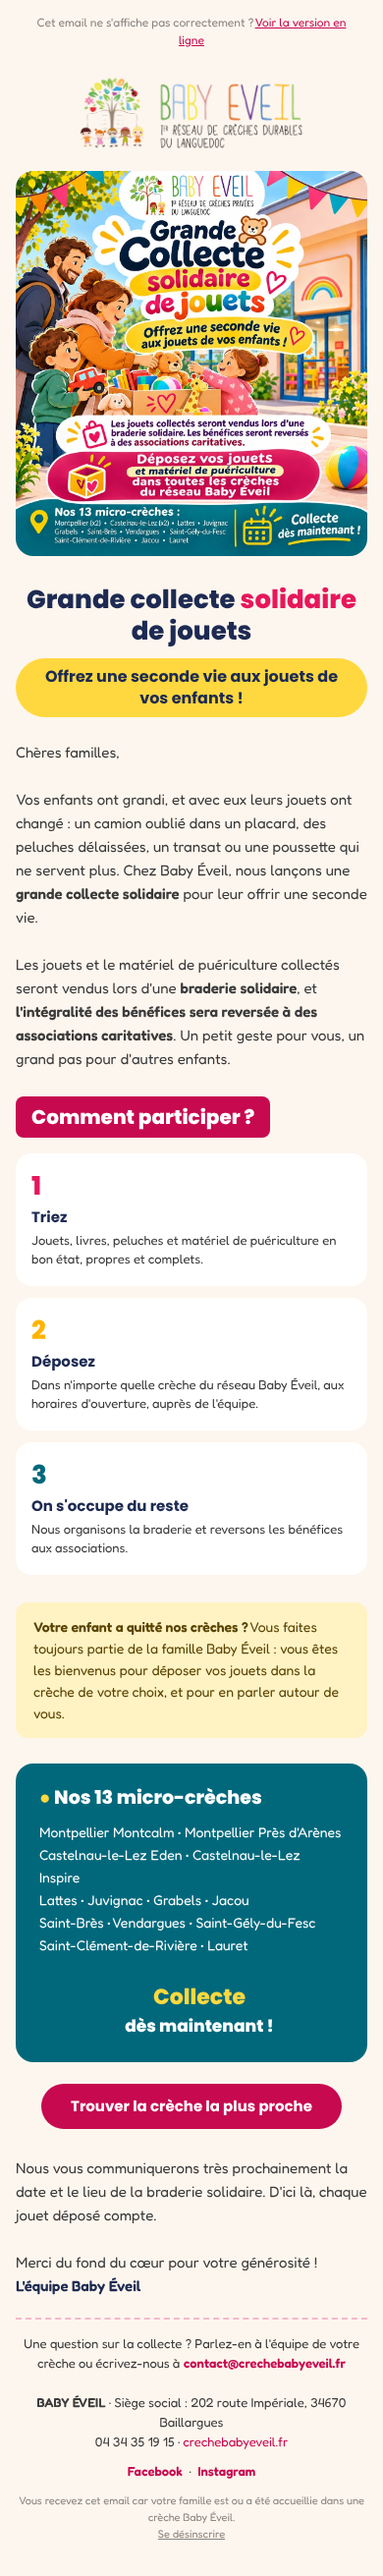
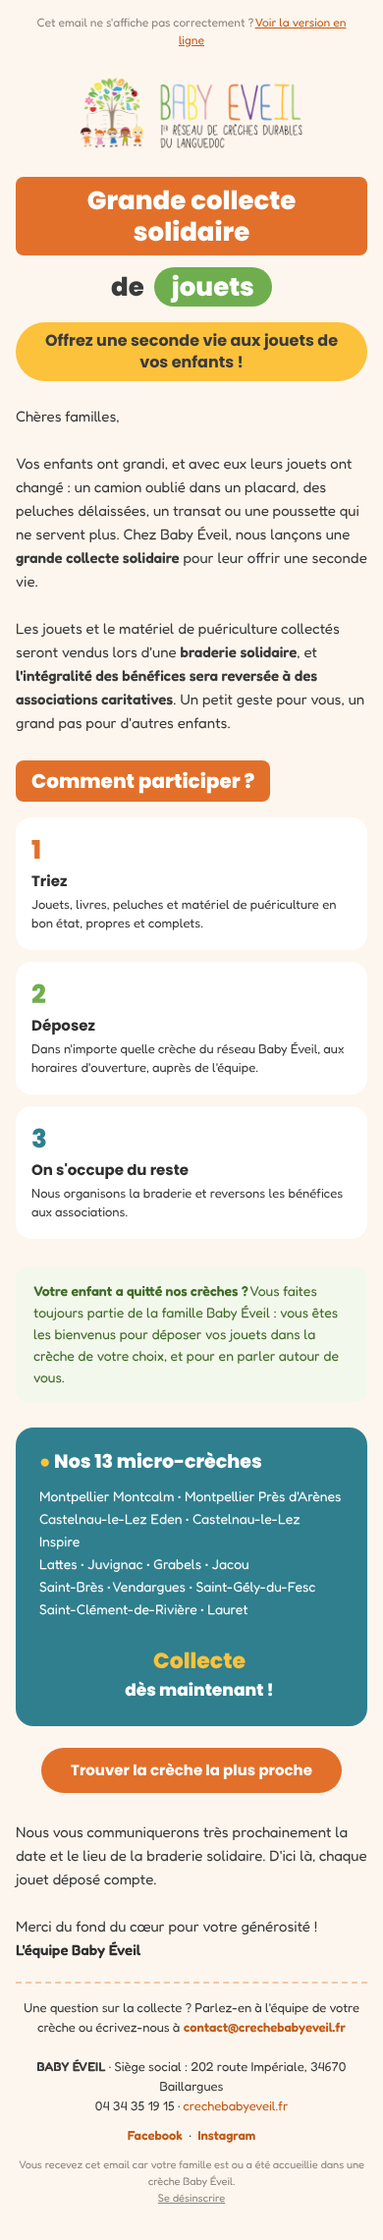
Email collecte de jouets : charte Baby Éveil, sans l'affiche
Claude-Session: https://claude.ai/code/session_019qc59Zs9auVzVSiYqsTnYf

diff --git a/emails/baby-eveil-collecte-jouets/email.html b/emails/baby-eveil-collecte-jouets/email.html
@@ -20,7 +20,7 @@
   body { background-color:#fdf6ee; -webkit-text-size-adjust:100%; -ms-text-size-adjust:100%; }
   table, td { mso-table-lspace:0pt !important; mso-table-rspace:0pt !important; border-collapse:collapse !important; }
   img { -ms-interpolation-mode:bicubic; border:0; outline:none; text-decoration:none; display:block; }
-  a { color:#c7094f; text-decoration:none; }
+  a { color:#c25a17; text-decoration:none; }
   a[x-apple-data-detectors], .x-gmail-data-detectors, .x-gmail-data-detectors *, .aBn { border-bottom:0 !important; cursor:default !important; color:inherit !important; text-decoration:none !important; font-size:inherit !important; font-family:inherit !important; font-weight:inherit !important; line-height:inherit !important; }
   @media screen and (max-width:640px) {
     .wrapper { width:100% !important; }
@@ -49,7 +49,7 @@
   <table role="presentation" border="0" cellpadding="0" cellspacing="0" width="640" class="wrapper" style="width:640px; max-width:640px;">
     <tr>
       <td align="center" style="padding:14px 24px 0 24px; font-family:'Fredoka','Trebuchet MS',Arial,sans-serif; font-size:12px; line-height:18px; color:#8a8580;">
-        Cet email ne s'affiche pas correctement ? <a href="{{ mirror }}" style="color:#c7094f; text-decoration:underline;">Voir la version en ligne</a>
+        Cet email ne s'affiche pas correctement ? <a href="{{ mirror }}" style="color:#c25a17; text-decoration:underline;">Voir la version en ligne</a>
       </td>
     </tr>
   </table>
@@ -65,29 +65,30 @@
     </tr>
   </table>
 
-  <!-- ===================== AFFICHE ===================== -->
-  <table role="presentation" border="0" cellpadding="0" cellspacing="0" width="640" class="wrapper" style="width:640px; max-width:640px;">
-    <tr>
-      <td align="center" class="pad" style="padding:0 24px 0 24px;">
-        <img src="images/affiche-collecte-jouets.jpg" width="592" alt="Grande collecte solidaire de jouets – Offrez une seconde vie aux jouets de vos enfants" style="width:592px; max-width:100%; height:auto; border-radius:18px;">
-      </td>
-    </tr>
-  </table>
-
   <!-- ===================== TITRE + INTRO ===================== -->
   <table role="presentation" border="0" cellpadding="0" cellspacing="0" width="640" class="wrapper" style="width:640px; max-width:640px;">
     <tr>
-      <td align="center" class="pad" style="padding:28px 24px 0 24px;">
+      <td align="center" class="pad" style="padding:6px 24px 0 24px;">
         <table role="presentation" border="0" cellpadding="0" cellspacing="0">
           <tr>
-            <td align="center" class="h1" style="font-family:'Poppins','Trebuchet MS',Arial,sans-serif; font-size:30px; line-height:38px; font-weight:800; color:#1d2a52;">
-              Grande collecte <span style="color:#e6175b;">solidaire</span> de jouets
+            <td align="center" class="h1" style="background-color:#e2702b; border-radius:8px; padding:8px 18px; font-family:'Poppins','Trebuchet MS',Arial,sans-serif; font-size:28px; line-height:36px; font-weight:800; color:#ffffff;">
+              Grande collecte solidaire
             </td>
           </tr>
         </table>
         <table role="presentation" border="0" cellpadding="0" cellspacing="0" style="margin-top:12px;">
           <tr>
-            <td align="center" style="background-color:#ffd83f; border-radius:30px; padding:8px 18px; font-family:'Poppins','Trebuchet MS',Arial,sans-serif; font-size:16px; line-height:22px; font-weight:700; color:#1d2a52;">
+            <td class="h1" style="font-family:'Poppins','Trebuchet MS',Arial,sans-serif; font-size:28px; line-height:36px; font-weight:800; color:#3b3b3b; padding:0 10px 0 0; white-space:nowrap;">
+              de
+            </td>
+            <td class="h1" style="background-color:#6fae4e; border-radius:30px; padding:4px 18px; font-family:'Poppins','Trebuchet MS',Arial,sans-serif; font-size:28px; line-height:36px; font-weight:800; color:#ffffff; white-space:nowrap;">
+              jouets
+            </td>
+          </tr>
+        </table>
+        <table role="presentation" border="0" cellpadding="0" cellspacing="0" style="margin-top:16px;">
+          <tr>
+            <td align="center" style="background-color:#fcc23c; border-radius:30px; padding:8px 18px; font-family:'Poppins','Trebuchet MS',Arial,sans-serif; font-size:16px; line-height:22px; font-weight:700; color:#3b3b3b;">
               Offrez une seconde vie aux jouets de vos enfants&nbsp;!
             </td>
           </tr>
@@ -109,7 +110,7 @@
       <td class="pad" style="padding:26px 24px 0 24px;">
         <table role="presentation" border="0" cellpadding="0" cellspacing="0">
           <tr>
-            <td class="h2" style="background-color:#c7094f; border-radius:8px; padding:7px 16px; font-family:'Poppins','Trebuchet MS',Arial,sans-serif; font-size:21px; line-height:27px; font-weight:800; color:#ffffff;">
+            <td class="h2" style="background-color:#e2702b; border-radius:8px; padding:7px 16px; font-family:'Poppins','Trebuchet MS',Arial,sans-serif; font-size:21px; line-height:27px; font-weight:800; color:#ffffff;">
               Comment participer&nbsp;?
             </td>
           </tr>
@@ -123,8 +124,8 @@
             <td class="step" width="33%" valign="top" style="width:33%; padding:0 6px 0 0;">
               <table role="presentation" border="0" cellpadding="0" cellspacing="0" width="100%" style="background-color:#ffffff; border-radius:16px;">
                 <tr><td style="padding:18px 16px;">
-                  <div style="font-family:'Poppins','Trebuchet MS',Arial,sans-serif; font-size:26px; line-height:30px; font-weight:800; color:#e6175b;">1</div>
-                  <div style="font-family:'Poppins','Trebuchet MS',Arial,sans-serif; font-size:15px; line-height:21px; font-weight:700; color:#1d2a52; padding-top:6px;">Triez</div>
+                  <div style="font-family:'Poppins','Trebuchet MS',Arial,sans-serif; font-size:26px; line-height:30px; font-weight:800; color:#e2702b;">1</div>
+                  <div style="font-family:'Poppins','Trebuchet MS',Arial,sans-serif; font-size:15px; line-height:21px; font-weight:700; color:#2f2f2f; padding-top:6px;">Triez</div>
                   <div style="font-family:'Fredoka','Trebuchet MS',Arial,sans-serif; font-size:13px; line-height:19px; color:#3b3b3b; padding-top:4px;">Jouets, livres, peluches et matériel de puériculture en bon état, propres et complets.</div>
                 </td></tr>
               </table>
@@ -132,8 +133,8 @@
             <td class="step" width="34%" valign="top" style="width:34%; padding:0 3px;">
               <table role="presentation" border="0" cellpadding="0" cellspacing="0" width="100%" style="background-color:#ffffff; border-radius:16px;">
                 <tr><td style="padding:18px 16px;">
-                  <div style="font-family:'Poppins','Trebuchet MS',Arial,sans-serif; font-size:26px; line-height:30px; font-weight:800; color:#ffb400;">2</div>
-                  <div style="font-family:'Poppins','Trebuchet MS',Arial,sans-serif; font-size:15px; line-height:21px; font-weight:700; color:#1d2a52; padding-top:6px;">Déposez</div>
+                  <div style="font-family:'Poppins','Trebuchet MS',Arial,sans-serif; font-size:26px; line-height:30px; font-weight:800; color:#6fae4e;">2</div>
+                  <div style="font-family:'Poppins','Trebuchet MS',Arial,sans-serif; font-size:15px; line-height:21px; font-weight:700; color:#2f2f2f; padding-top:6px;">Déposez</div>
                   <div style="font-family:'Fredoka','Trebuchet MS',Arial,sans-serif; font-size:13px; line-height:19px; color:#3b3b3b; padding-top:4px;">Dans n'importe quelle crèche du réseau Baby Éveil, aux horaires d'ouverture, auprès de l'équipe.</div>
                 </td></tr>
               </table>
@@ -141,8 +142,8 @@
             <td class="step" width="33%" valign="top" style="width:33%; padding:0 0 0 6px;">
               <table role="presentation" border="0" cellpadding="0" cellspacing="0" width="100%" style="background-color:#ffffff; border-radius:16px;">
                 <tr><td style="padding:18px 16px;">
-                  <div style="font-family:'Poppins','Trebuchet MS',Arial,sans-serif; font-size:26px; line-height:30px; font-weight:800; color:#01687b;">3</div>
-                  <div style="font-family:'Poppins','Trebuchet MS',Arial,sans-serif; font-size:15px; line-height:21px; font-weight:700; color:#1d2a52; padding-top:6px;">On s'occupe du reste</div>
+                  <div style="font-family:'Poppins','Trebuchet MS',Arial,sans-serif; font-size:26px; line-height:30px; font-weight:800; color:#2f7f8e;">3</div>
+                  <div style="font-family:'Poppins','Trebuchet MS',Arial,sans-serif; font-size:15px; line-height:21px; font-weight:700; color:#2f2f2f; padding-top:6px;">On s'occupe du reste</div>
                   <div style="font-family:'Fredoka','Trebuchet MS',Arial,sans-serif; font-size:13px; line-height:19px; color:#3b3b3b; padding-top:4px;">Nous organisons la braderie et reversons les bénéfices aux associations.</div>
                 </td></tr>
               </table>
@@ -156,7 +157,7 @@
       <td class="pad" style="padding:16px 24px 0 24px;">
         <table role="presentation" border="0" cellpadding="0" cellspacing="0" width="100%">
           <tr>
-            <td style="background-color:#fff3c4; border-radius:12px; padding:14px 18px; font-family:'Fredoka','Trebuchet MS',Arial,sans-serif; font-size:14px; line-height:22px; color:#5a4300;">
+            <td style="background-color:#f3f8ec; border-radius:12px; padding:14px 18px; font-family:'Fredoka','Trebuchet MS',Arial,sans-serif; font-size:14px; line-height:22px; color:#3e6b27;">
               <strong>Votre enfant a quitté nos crèches&nbsp;?</strong> Vous faites toujours partie de la famille Baby Éveil&nbsp;: vous êtes les bienvenus pour déposer vos jouets dans la crèche de votre choix, et pour en parler autour de vous.
             </td>
           </tr>
@@ -169,14 +170,14 @@
   <table role="presentation" border="0" cellpadding="0" cellspacing="0" width="640" class="wrapper" style="width:640px; max-width:640px;">
     <tr>
       <td class="pad" style="padding:26px 24px 0 24px;">
-        <table role="presentation" border="0" cellpadding="0" cellspacing="0" width="100%" style="background-color:#01687b; border-radius:18px;">
+        <table role="presentation" border="0" cellpadding="0" cellspacing="0" width="100%" style="background-color:#2f7f8e; border-radius:18px;">
           <tr>
             <td style="padding:22px 24px 24px 24px;">
               <table role="presentation" border="0" cellpadding="0" cellspacing="0" width="100%">
                 <tr>
                   <td class="stack stack-gap" valign="top" style="padding:0 16px 0 0;">
                     <div style="font-family:'Poppins','Trebuchet MS',Arial,sans-serif; font-size:19px; line-height:26px; font-weight:800; color:#ffffff;">
-                      <span style="color:#ffd83f;">&#9679;</span> Nos 13 micro-crèches
+                      <span style="color:#fcc23c;">&#9679;</span> Nos 13 micro-crèches
                     </div>
                     <div style="padding-top:10px; font-family:'Fredoka','Trebuchet MS',Arial,sans-serif; font-size:14px; line-height:23px; color:#ffffff;">
                       Montpellier Montcalm &bull; Montpellier Près d'Arènes<br>
@@ -186,8 +187,8 @@
                       Saint-Clément-de-Rivière &bull; Lauret
                     </div>
                   </td>
-                  <td class="stack center sep" width="190" valign="middle" align="center" style="width:190px; padding:0; border-left:1px solid #5fa3b0;">
-                    <div style="font-family:'Poppins','Trebuchet MS',Arial,sans-serif; font-size:22px; line-height:28px; font-weight:800; color:#ffd83f; padding:0 0 0 16px;">
+                  <td class="stack center sep" width="190" valign="middle" align="center" style="width:190px; padding:0; border-left:1px solid #7fb3bd;">
+                    <div style="font-family:'Poppins','Trebuchet MS',Arial,sans-serif; font-size:22px; line-height:28px; font-weight:800; color:#fcc23c; padding:0 0 0 16px;">
                       Collecte<br><span style="color:#ffffff; font-size:17px; line-height:24px;">dès maintenant&nbsp;!</span>
                     </div>
                   </td>
@@ -203,7 +204,7 @@
       <td align="center" class="pad" style="padding:22px 24px 6px 24px;">
         <table role="presentation" border="0" cellpadding="0" cellspacing="0">
           <tr>
-            <td align="center" style="background-color:#c7094f; border-radius:30px; mso-padding-alt:14px 30px;">
+            <td align="center" style="background-color:#e2702b; border-radius:30px; mso-padding-alt:14px 30px;">
               <a href="https://crechebabyeveil.fr/creches-baby-eveil" target="_blank" style="display:inline-block; padding:14px 30px; font-family:'Poppins','Trebuchet MS',Arial,sans-serif; font-size:15px; line-height:18px; font-weight:700; color:#ffffff; text-decoration:none;">Trouver la crèche la plus proche</a>
             </td>
           </tr>
@@ -218,19 +219,19 @@
       <td class="pad" style="padding:22px 24px 0 24px; font-family:'Fredoka','Trebuchet MS',Arial,sans-serif; font-size:15px; line-height:24px; color:#3b3b3b;">
         Nous vous communiquerons très prochainement la date et le lieu de la braderie solidaire. D'ici là, chaque jouet déposé compte.<br><br>
         Merci du fond du cœur pour votre générosité&nbsp;!<br>
-        <strong style="color:#1d2a52;">L'équipe Baby Éveil</strong>
+        <strong style="color:#2f2f2f;">L'équipe Baby Éveil</strong>
       </td>
     </tr>
     <tr>
       <td class="pad" style="padding:20px 24px 0 24px;">
         <table role="presentation" border="0" cellpadding="0" cellspacing="0" width="100%">
-          <tr><td style="border-top:2px dashed #f2b8cc; font-size:0; line-height:0;">&nbsp;</td></tr>
+          <tr><td style="border-top:2px dashed #f0c7a7; font-size:0; line-height:0;">&nbsp;</td></tr>
         </table>
       </td>
     </tr>
     <tr>
       <td align="center" class="pad" style="padding:14px 24px 6px 24px; font-family:'Fredoka','Trebuchet MS',Arial,sans-serif; font-size:13px; line-height:20px; color:#3b3b3b;">
-        Une question sur la collecte&nbsp;? Parlez-en à l'équipe de votre crèche ou écrivez-nous à <a href="mailto:contact@crechebabyeveil.fr" style="color:#c7094f; font-weight:600;">contact@crechebabyeveil.fr</a>
+        Une question sur la collecte&nbsp;? Parlez-en à l'équipe de votre crèche ou écrivez-nous à <a href="mailto:contact@crechebabyeveil.fr" style="color:#c25a17; font-weight:600;">contact@crechebabyeveil.fr</a>
       </td>
     </tr>
   </table>
@@ -240,12 +241,12 @@
     <tr>
       <td align="center" class="pad" style="padding:14px 24px 6px 24px; font-family:'Fredoka','Trebuchet MS',Arial,sans-serif; font-size:13px; line-height:20px; color:#3b3b3b;">
         <strong>BABY ÉVEIL</strong> &middot; Siège social&nbsp;: 202 route Impériale, 34670 Baillargues<br>
-        <a href="tel:+33434351915" style="color:#3b3b3b;">04&nbsp;34&nbsp;35&nbsp;19&nbsp;15</a> &middot; <a href="https://crechebabyeveil.fr" target="_blank" style="color:#c7094f;">crechebabyeveil.fr</a>
+        <a href="tel:+33434351915" style="color:#3b3b3b;">04&nbsp;34&nbsp;35&nbsp;19&nbsp;15</a> &middot; <a href="https://crechebabyeveil.fr" target="_blank" style="color:#c25a17;">crechebabyeveil.fr</a>
       </td>
     </tr>
     <tr>
       <td align="center" class="pad" style="padding:4px 24px 6px 24px; font-family:'Fredoka','Trebuchet MS',Arial,sans-serif; font-size:13px; line-height:20px; color:#3b3b3b;">
-        <a href="https://www.facebook.com/crechebabyeveil" target="_blank" style="color:#c7094f; font-weight:600;">Facebook</a> &nbsp;&middot;&nbsp; <a href="https://www.instagram.com/crechebabyeveil/" target="_blank" style="color:#c7094f; font-weight:600;">Instagram</a>
+        <a href="https://www.facebook.com/crechebabyeveil" target="_blank" style="color:#c25a17; font-weight:600;">Facebook</a> &nbsp;&middot;&nbsp; <a href="https://www.instagram.com/crechebabyeveil/" target="_blank" style="color:#c25a17; font-weight:600;">Instagram</a>
       </td>
     </tr>
     <tr>

diff --git a/emails/baby-eveil-collecte-jouets/README.md b/emails/baby-eveil-collecte-jouets/README.md
@@ -1,24 +1,17 @@
 # Email Brevo – « Grande collecte solidaire de jouets » (Baby Éveil)
 
-Email destiné aux familles actuelles et anciennes du réseau, reprenant
-l'affiche de la collecte. Même charte que l'email « berceaux entreprise »
-(fond crème, Poppins / Fredoka) avec les couleurs de l'affiche
-(rose #c7094f, jaune #ffd83f, bleu canard #01687b).
+Email destiné aux familles actuelles et anciennes du réseau. Même charte que
+l'email « berceaux entreprise » : fond crème #fdf6ee, orange #e2702b, vert
+#6fae4e, bleu-canard #2f7f8e, jaune #fcc23c, polices Poppins / Fredoka.
 
 ## Fichiers
 
-- `email.html` : l'email.
-- `images/affiche-collecte-jouets.jpg` : l'affiche, à héberger (voir ci-dessous).
+- `email.html` : l'email. La seule image est le logo, déjà hébergé sur le site.
 - `apercu-desktop.png` / `apercu-mobile.png` : rendus de contrôle.
 
 ## Intégration dans Brevo
 
-1. **Héberger l'affiche** : importer `images/affiche-collecte-jouets.jpg` dans
-   la bibliothèque d'images Brevo (ou dans la médiathèque WordPress du site,
-   comme pour la photo d'Astrid) et copier l'URL obtenue.
-2. **Remplacer le chemin** dans `email.html` : `src="images/affiche-collecte-jouets.jpg"`
-   doit devenir cette URL. Sans cela, le texte alternatif s'affiche à la place.
-3. **Créer le modèle** : Campagnes > Modèles > Nouveau modèle > Coder en HTML >
+1. **Créer le modèle** : Campagnes > Modèles > Nouveau modèle > Coder en HTML >
    coller le contenu de `email.html` > Enregistrer > envoyer un test.
 
 Balises Brevo déjà en place : `{{ mirror }}` et `{{ unsubscribe }}`.
